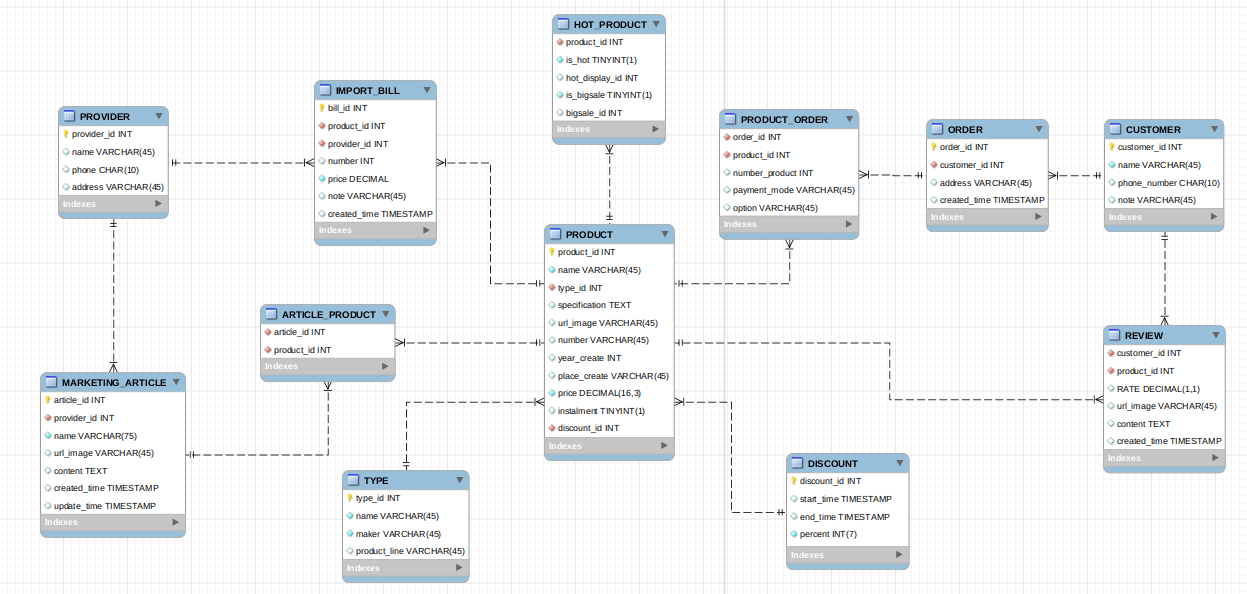
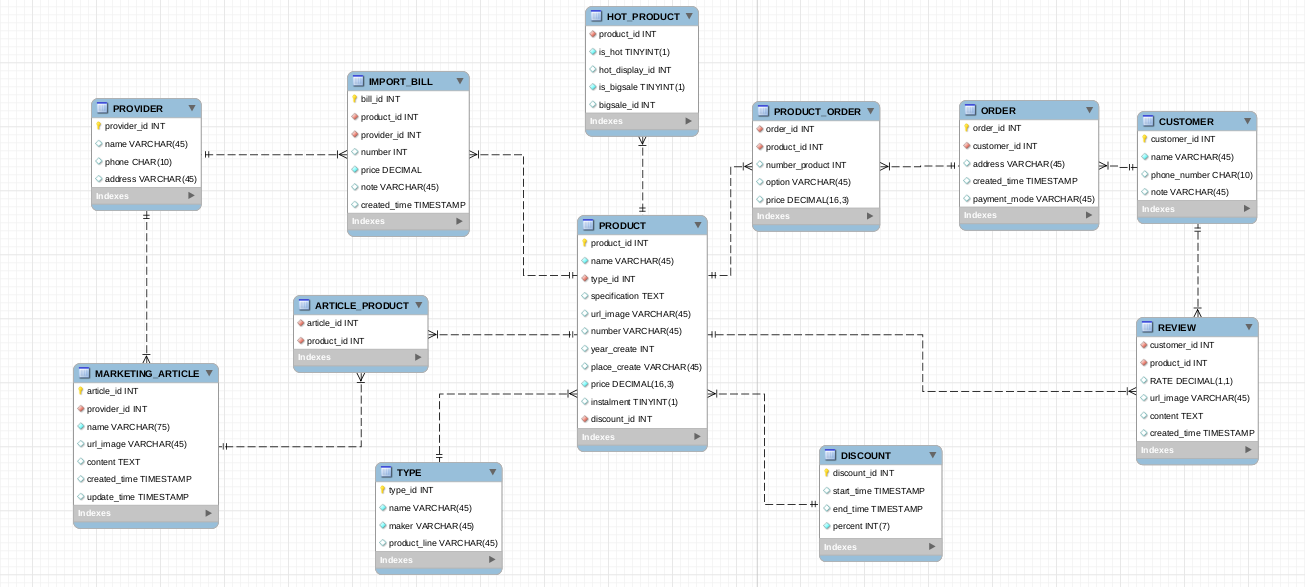
fixed database

diff --git a/src/service/CustomerService.java b/src/service/CustomerService.java
@@ -173,10 +173,18 @@ public class CustomerService implements CustomerInterface {
         String showOrders = "SELECT order_id,address,created_time FROM `ORDER` WHERE customer_id=" + customerID + ";";
         try {
             Statement statement = connection.createStatement();
+            Statement statement1 = connection.createStatement();
             ResultSet rs = statement.executeQuery(showOrders);
+            ResultSet showPrice;
             while (rs.next()) {
-                System.out.println("OrderID : " + rs.getInt(1) + " address: " + rs.getString(2));
+                int orderID = rs.getInt(1);
+                System.out.println("OrderID : " + orderID + " address: " + rs.getString(2));
                 System.out.println("Created time: " + rs.getTimestamp(3));
+                String getPrice = "SELECT SUM(price) FROM PRODUCT_ORDER WHERE order_id=" + orderID + ";";
+              //  System.out.println(getPrice);
+                showPrice = statement1.executeQuery(getPrice);
+                while(showPrice.next())
+                System.out.println("Price of order: " + showPrice.getBigDecimal(1));
             }
         } catch (Exception e) {
             e.printStackTrace();
@@ -185,7 +193,7 @@ public class CustomerService implements CustomerInterface {
 
     @Override
     public void showProductsInOrder(int orderID) {
-        String showProducts = "SELECT p.name,p.url_image,p.price,por.number_product FROM PRODUCT_ORDER por JOIN PRODUCT p ON por.product_id = p.product_id WHERE por.order_id=" + orderID + ";";
+        String showProducts = "SELECT p.name,p.url_image,por.price,por.number_product FROM PRODUCT_ORDER por JOIN PRODUCT p ON por.product_id = p.product_id WHERE por.order_id=" + orderID + ";";
         try {
             // System.out.println(showProducts);
             Statement statement = connection.createStatement();
@@ -200,13 +208,13 @@ public class CustomerService implements CustomerInterface {
     }
 
     @Override
-    public void createOrderBill(String name, String phonenumber, String address) {
+    public void createOrderBill(String name, String phonenumber,String paymentMode, String address) {
         int customerID = verifyCustomerPhonenumber(phonenumber);
         if (customerID == 0) {
             addCustomer(name, phonenumber, "new");
             customerID = verifyCustomerPhonenumber(phonenumber);
         }
-        String createBill = "INSERT INTO `ORDER` (customer_id,address) VALUES ('" + customerID + "','" + address + "');";
+        String createBill = "INSERT INTO `ORDER` (customer_id,payment_mode,address) VALUES ('" + customerID + "','" + paymentMode + "','" + address + "');";
         // System.out.println(createBill);
         try {
             Statement statement = connection.createStatement();
@@ -248,8 +256,8 @@ public class CustomerService implements CustomerInterface {
     }
 
     @Override
-    public void addProductsToOrder(int orderID, int productID, int number, String paymentMode, String option) {
-        String addProduct = "INSERT INTO PRODUCT_ORDER  VALUES ('" + orderID + "','" + productID + "','" + number + "','" + paymentMode + "','" + option + "');";
+    public void addProductsToOrder(int orderID, int productID, int number, String option,BigDecimal price) {
+        String addProduct = "INSERT INTO PRODUCT_ORDER  VALUES ('" + orderID + "','" + productID + "','" + number  + "','" + option + "','" + price + "');";
         // System.out.println(addProduct);
         try {
             Statement statement = connection.createStatement();

diff --git a/src/Application.java b/src/Application.java
@@ -22,9 +22,9 @@ public class Application {
                 connection = DriverManager.getConnection("jdbc:mysql://localhost:3306/mydb", "root", "Hoangnt1@");
                 AdminService adminService = new AdminService(connection);
                 CustomerService customerService = new CustomerService(connection);
-                //  adminService.addTypeOfProduct("xps","dell","laptop");
-                //   adminService.addProduct("P53s",1,"high performance","url_image",14,2019,"China",new BigDecimal(33190000.5),(short)1,1);
-                //    adminService.addPromotion("2020-10-21 11:37:52","2020-10-21 11:37:52",40);
+                //adminService.addTypeOfProduct("xps","dell","laptop");
+                // adminService.addProduct("P53s",1,"high performance","url_image",14,2019,"China",new BigDecimal(33190000.5),(short)1,1);
+                //  adminService.addPromotion("2020-10-21 11:37:52","2020-10-21 11:37:52",40);
                 //    adminService.updateProduct(2,null,-1,"light and durable",null,-1,2020,null,null,(short)-1,-1);
                 //      adminService.addArticle(3,"Choose laptops","ttt","hello world");
                 //       adminService.updateArticle(1,-1,"hello","2%3f","hello world");
@@ -54,12 +54,12 @@ public class Application {
                 //customerService.showProductsInConditions(new BigDecimal(33190000.500),new BigDecimal(33190000.500),"Lenovo","ASC",1);
                 //customerService.showAllArticles();
                 //customerService.showArticleInDetail(4);
-                //customerService.createOrderBill("Vinh","0329609322","PH");
-                //customerService.showOrdersOfCustomer("0329609321");
-                //customerService.addProductsToOrder(2,2,45,"cash","grey");
+                //customerService.createOrderBill("Vinh","0329609322","Cash","PH");
+               // customerService.showOrdersOfCustomer("0329609322");
+                //customerService.addProductsToOrder(1,1,45,"grey",new BigDecimal(22.3));
                 //customerService.updateNumberProductsOfOrder(2,2,7);
                 //customerService.deleteProductsInOrder(2,2);
-                //customerService.showProductsInOrder(2);
+                //customerService.showProductsInOrder(1);
             } catch (SQLException e) {
                 System.out.println("Connection Fail! Exception: " + e);
                 return;

diff --git a/src/interfaces/CustomerInterface.java b/src/interfaces/CustomerInterface.java
@@ -25,9 +25,9 @@ public interface CustomerInterface {
 
 
     //order
-    public void createOrderBill(String name, String phonenumber, String address);
+    public void createOrderBill(String name, String phonenumber,String paymentMode, String address);
 
-    public void addProductsToOrder(int orderID, int productID, int number, String paymentMode, String option);
+    public void addProductsToOrder(int orderID, int productID, int number, String option,BigDecimal price);
 
     public void updateNumberProductsOfOrder(int orderID, int productID, int number);
 
